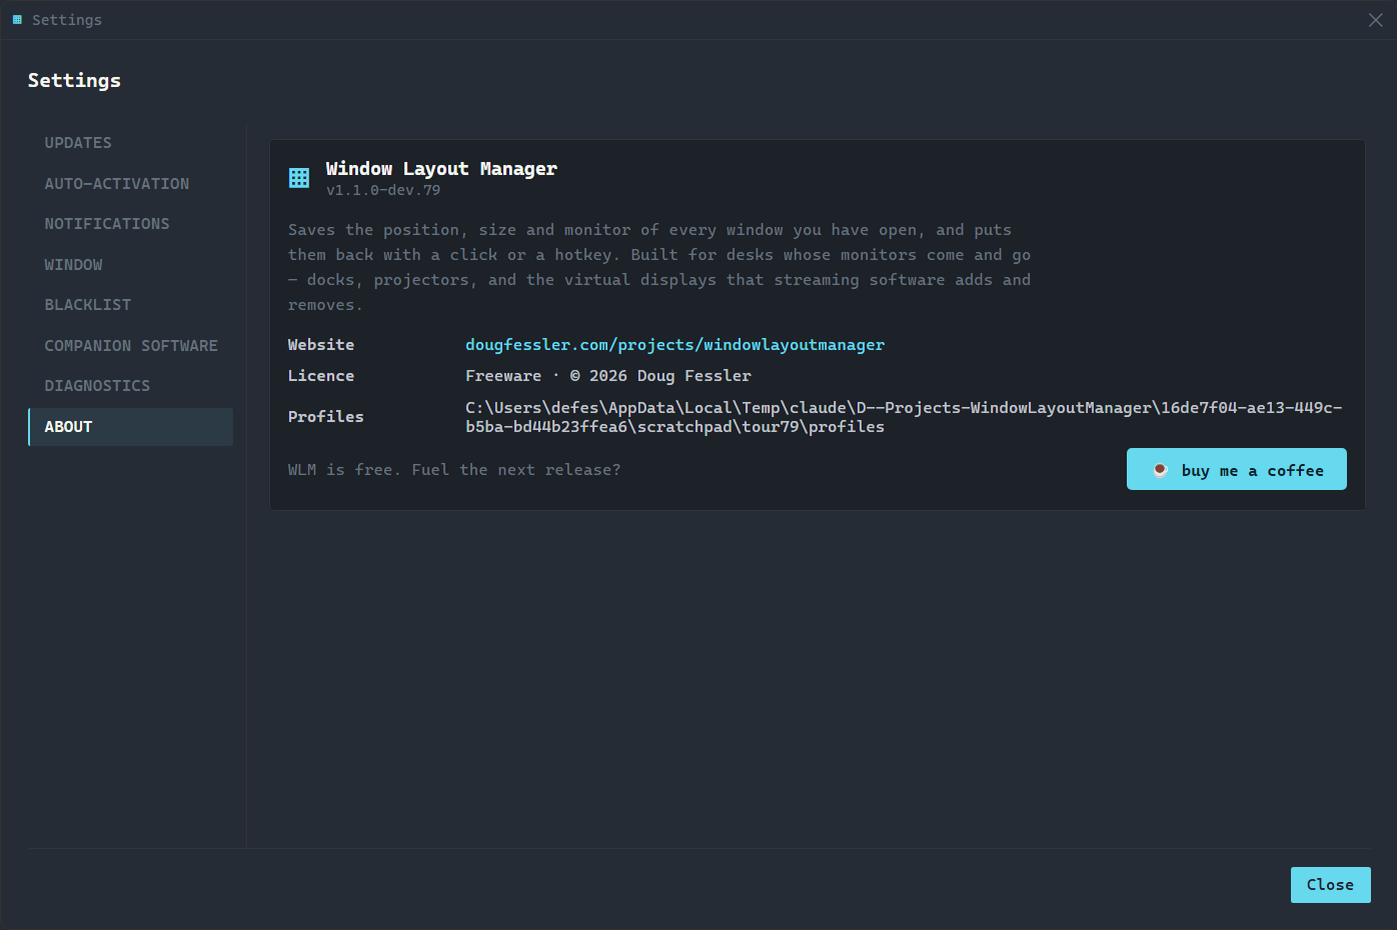
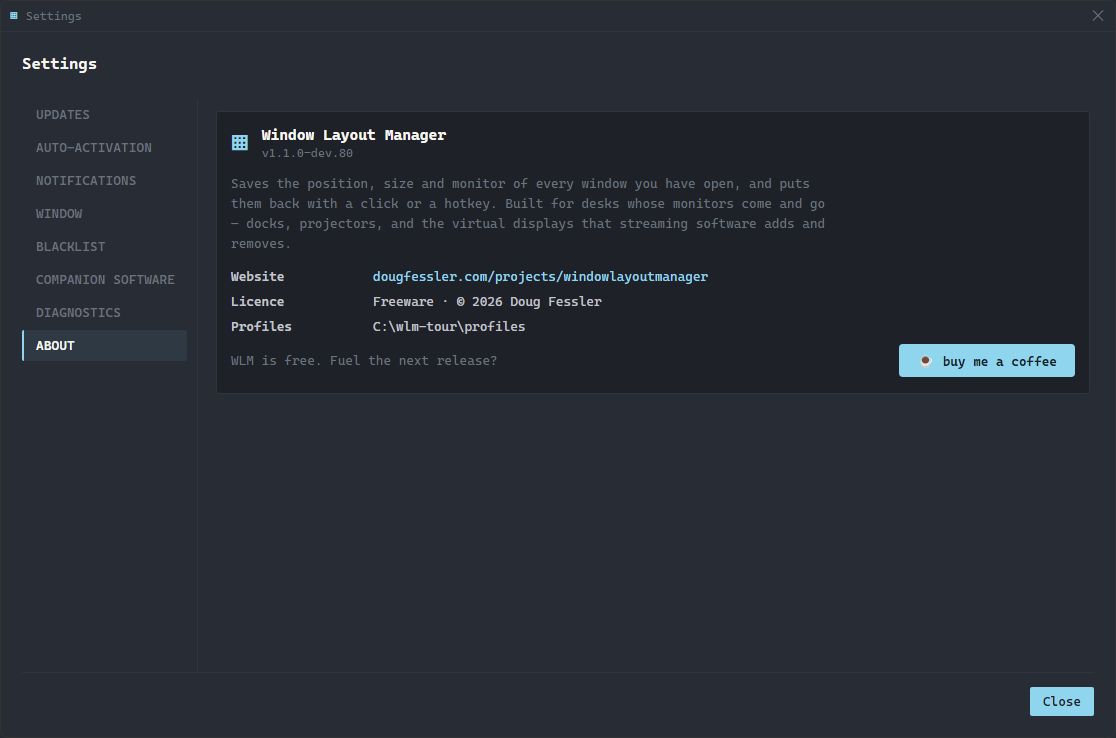
WLM v1.1.0-dev.80: feed, download link, tutorial screenshots
Feed values read straight off the public release rather than typed, so
sizeBytes and sha256 describe the exact asset the url points at. CI's
own zip is a separate build at 122,988,796 bytes against this one's
123,000,255, which is why the private repo's asset can never be the
source for these.

All eighteen screenshots regenerated against dev.80. The About shot had
been publishing a local scratchpad path since dev.79, complete with the
Windows username. The tour now runs out of a neutral directory, so that
row reads C:\wlm-tour\profiles instead.

diff --git a/projects/windowlayoutmanager/index.html b/projects/windowlayoutmanager/index.html
@@ -595,7 +595,7 @@
                dev.74, which is what anyone with scripts blocked would have
                downloaded. -->
           <a class="btn-download" id="dl-btn"
-             href="https://github.com/defessler/WindowLayoutManager-releases/releases/download/v1.1.0-dev.79/WindowLayoutManager-v1.1.0-dev.79-win-x64.zip">Download for Windows</a>
+             href="https://github.com/defessler/WindowLayoutManager-releases/releases/download/v1.1.0-dev.80/WindowLayoutManager-v1.1.0-dev.80-win-x64.zip">Download for Windows</a>
           <div class="dl-meta">
             <div id="dl-version">latest release<span class="pre-badge" id="dl-pre" hidden>pre-release</span></div>
             <div id="dl-info">x64 · portable .zip</div>
